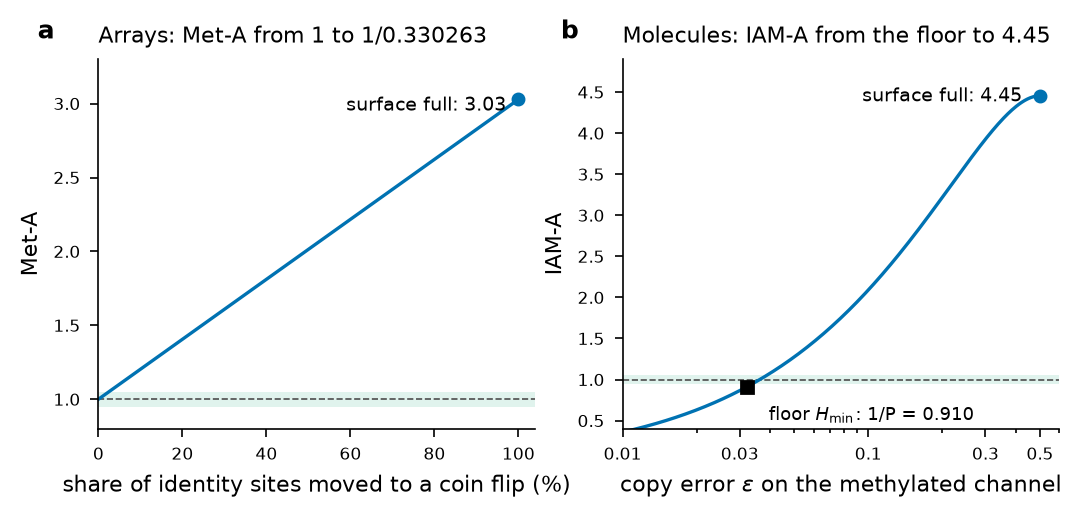
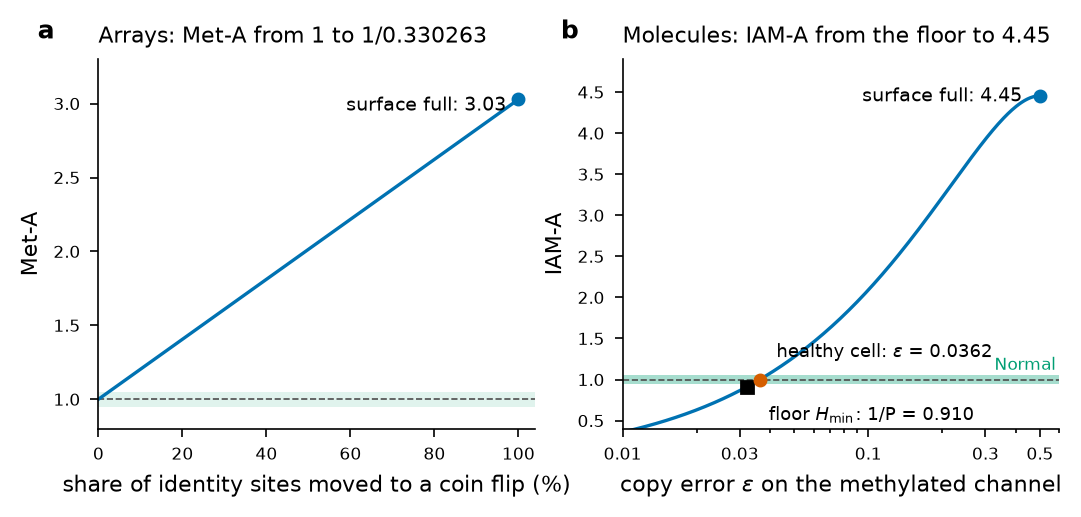
Part VI author items 26-31
26: astrogenetics cell-side list - tumour-normal pair item restored with its original wording (reach chapter still carries the pairs).
27: fig_p4_24_labels regenerated from tab:status; caption 28 rows, 6 MEASURED.
28: fig_p4_05_fullsurface panel (b): healthy-cell marker (eps=0.0362) and visible Normal band added.
29: tab:caught names verify_astrogenetics_book.py and its 36 of 36 checks (matching tab:map79).
30: operating-ratio caption describes the chip's labelled point (399-411 range is too narrow to show as a bar on the log axis).
31: donors caption: odd and even halves fall within the square.

Claude-Session: https://claude.ai/code/session_01YZ7FkBLCi5Ad23AywtcAcX

Changed region(s): [[0.58, 0.6499, 0.9769, 0.7427]]

diff --git a/docs/book/figscripts/fig_p4.py b/docs/book/figscripts/fig_p4.py
@@ -28,9 +28,9 @@ def H(x):
     return -(x * np.log2(x) + (1 - x) * np.log2(1 - x))
 
 
-def normal_band(ax, axis="y", label=True):
+def normal_band(ax, axis="y", label=True, alpha=0.12):
     f = ax.axhspan if axis == "y" else ax.axvspan
-    f(*NORMAL, color=NCOL, alpha=0.12, lw=0, zorder=0)
+    f(*NORMAL, color=NCOL, alpha=alpha, lw=0, zorder=0)
     (ax.axhline if axis == "y" else ax.axvline)(1.0, color=S.GR, lw=0.6, ls="--", zorder=0)
 
 
@@ -160,7 +160,9 @@ def fig_fullsurface():
     a1.plot(100, Amax, "o", color=S.IAM, ms=4); a1.annotate(f"surface full: {Amax:.2f}", (100, Amax), xytext=(-62, -4), textcoords="offset points", fontsize=7)
     a1.set_xlabel("share of identity sites moved to a coin flip (%)"); a1.set_ylabel("Met-A"); a1.set_xlim(0, 104); a1.set_ylim(0.8, 3.3)
     a1.set_title("Arrays: Met-A from 1 to 1/0.330263"); S.panel_letter(a1, "a")
-    a2.plot(e, iam, color=S.IAM); normal_band(a2)
+    a2.plot(e, iam, color=S.IAM); normal_band(a2, alpha=0.35)
+    a2.text(0.6 * 0.97, 1.07, "Normal", ha="right", va="bottom", fontsize=6, color=NCOL)
+    a2.plot(eh, 1.0, "o", color=S.DATA, ms=4, zorder=3); a2.annotate(f"healthy cell: $\\varepsilon$ = {eh:.4f}", (eh, 1.0), xytext=(6, 8), textcoords="offset points", fontsize=6.5)
     a2.plot(EPS0, 1 / P_NEU, "s", color="k", ms=4); a2.annotate(f"floor $H_{{\\min}}$: 1/P = {1/P_NEU:.3f}", (EPS0, 1 / P_NEU), xytext=(8, -12), textcoords="offset points", fontsize=6.5)
     a2.plot(0.5, Amax2, "o", color=S.IAM, ms=4); a2.annotate(f"surface full: {Amax2:.2f}", (0.5, Amax2), xytext=(-64, -2), textcoords="offset points", fontsize=7)
     a2.set_xscale("log"); a2.set_xlim(0.01, 0.6); a2.set_ylim(0.4, 4.9)

diff --git a/docs/book/part6/p6_00b_astrogenetics.tex b/docs/book/part6/p6_00b_astrogenetics.tex
@@ -287,7 +287,7 @@ against the measured $1.133\times10^{-123}$, $0.79\,\%$ above it, with the facto
 \paragraph{The cell side.} On single molecules the copy-error statistic and the read pipeline were fixed, and each test's pass conditions
 were written down before the data below were read; each specimen is read against its own untreated or normal state, never against
 a group.
-\begin{itemize}
+\begin{itemize}\item Early-onset colorectal tumours against the same patient's adjacent normal tissue: copy error higher in 6 of 6 pairs, median ratio 1.148, both pre-registered conditions met; oral squamous carcinoma against the same patient's normal tissue, higher in 4 of 4 (Chapter~\ref{part4:ch:reach}). \measured
 \item Senescent and immortalised fibroblasts against their own proliferating cultures, channel by channel, as above. \measured
 \end{itemize}
 What these do not show: why. Tumour purity is unknown; the tissue mix differs between tumour and normal. The far end is exact and the floor's form is derived, but breach on this gauge is still to be

diff --git a/docs/book/part6/p6_16a_skytools.tex b/docs/book/part6/p6_16a_skytools.tex
@@ -183,8 +183,8 @@ ceiling & entropy-ceiling flag in Met-A \\
 E/B separation & the tumour's excess copy error survived removal of 5hmC in 3 of 4 oral tumour pairs & 5mC-only reads kept as a check \\
 residual map & localised damage invisible to Met-A (this chapter) & C-score reported beside every Met-A \\
 isotropy test & a sex foreground in whole-array maps (this chapter) & sex mask required for whole-array maps \\
-reproducibility & numbers typed in by hand drift from the files the chain reads & derivation tests that read the frozen files
-(12 of 12 pass) \\\bottomrule
+reproducibility & numbers typed in by hand drift from the files the chain reads & derivation and calculation checks that read the frozen files
+(verify\_astrogenetics\_book.py: 36 of 36 pass) \\\bottomrule
 \end{longtable}
 \end{center}
 

diff --git a/docs/book/part6/p6_08_iama.tex b/docs/book/part6/p6_08_iama.tex
@@ -65,7 +65,7 @@ IAM-A follows.
 \begin{figure}[htbp]\centering
 \includegraphics[width=0.62\textwidth]{figures/part6/fig_p4_08_donors.pdf}
 \caption{The three healthy granulocyte donors on single molecules~\cite{Loyfer2023}. Circles: on the bare floor $\varepsilon_0$; squares: with the
-frozen position $P$, each donor held out of its own $P$ (the shaded stroke joins its odd and even molecule halves); triangles: the same molecules
+frozen position $P$, each donor held out of its own $P$ (its odd and even molecule halves fall within the square); triangles: the same molecules
 with 2~\% copy error added. The line is the floor $1/P$. \measured}
 \label{fig:p4_donors}
 \end{figure}

diff --git a/docs/book/part6/p6_02_landauer.tex b/docs/book/part6/p6_02_landauer.tex
@@ -102,7 +102,7 @@ At 310~K it spends $20.94\,\kB T$ per ATP, 30.2 times the Landauer floor of one 
 \begin{figure}[htbp]\centering
 \includegraphics[width=0.62\textwidth]{figures/part6/fig_p4_02_operating.pdf}
 \caption{The operating ratio $M=\Edrive/\kB T$ of Table~\ref{tab:p4operating} on a log axis; the vertical line is the Landauer floor, $M=\ln2$.
-The chip's bar is the range set by its two published transistor counts. \calc}
+The chip's point is labelled with the range set by its two published transistor counts. \calc}
 \label{fig:p4operating}
 \end{figure}
 

diff --git a/docs/book/part6/p6_24_status.tex b/docs/book/part6/p6_24_status.tex
@@ -46,7 +46,7 @@ this Part on the one gauge.
 
 \begin{figure}[htbp]\centering
 \includegraphics[width=0.62\textwidth]{figures/part6/fig_p4_24_labels.pdf}
-\caption{Status labels in Table~\ref{tab:status}, counted from the table (30 rows; 8 carry MEASURED). Grey: rows whose status is a word
+\caption{Status labels in Table~\ref{tab:status}, counted from the table (28 rows; 6 carry MEASURED). Grey: rows whose status is a word
 rather than a label. \observed}
 \label{fig:p4_labels}
 \end{figure}
